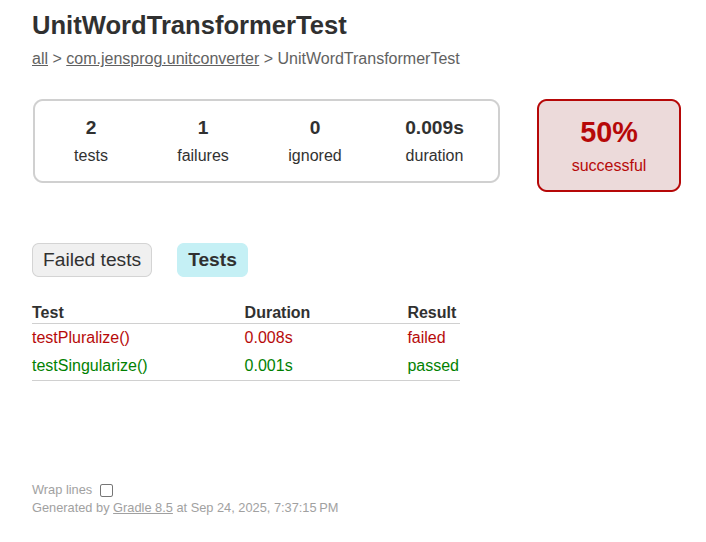
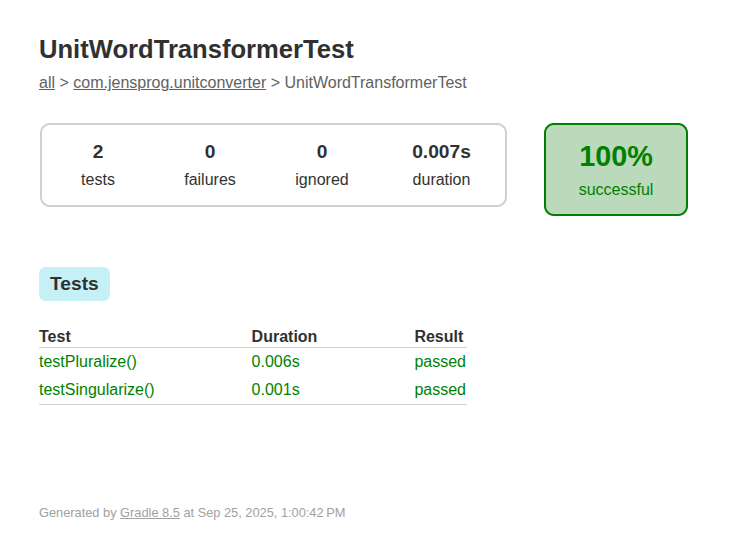
Found the issue around my conversion between singular and plural for speed conversion, issue fixed and all tests pass.

diff --git a/src/main/java/com/jensprog/unitconverter/UnitWordTransformer.java b/src/main/java/com/jensprog/unitconverter/UnitWordTransformer.java
@@ -42,9 +42,9 @@ public class UnitWordTransformer {
     singularToPlural.put("cup", "cups");
     singularToPlural.put("fluidOunce", "fluidOunces");
 
-    singularToPlural.put("meterPerSecond", "metersPerSecond");
-    singularToPlural.put("kilometerPerHour", "kilometersPerHour");
-    singularToPlural.put("milePerHour", "milesPerHour");
+    singularToPlural.put("m/s", "m/s");
+    singularToPlural.put("km/h", "km/h");
+    singularToPlural.put("mph", "mph");
 
     singularToPlural.put("celsius", "celsius");
     singularToPlural.put("fahrenheit", "fahrenheit");

diff --git a/docs/Reflections.md b/docs/Reflections.md
@@ -14,7 +14,7 @@
 
 I have not reflected as much of naming before as I do now when reading the book and also focus on it. It is harder than I expected and so far from my experience, the more a class/method/variable do, the harder it is to give them good descriptive names. I have started creating certain methods (example below) with names I did not like, I understood what the method did but if someone looked at the name of the method, they might not get it immediately. When I created classes or methods with names I thought were good, I felt that someone from the outside don't have to check what the class actually does or what the behaviour of the method is, since the naming was good.
 
-Before reading the book I have not thought about nouns and verbs, why it's better that classes have nouns and methods have verbs. 
+Before reading the book I have not thought about nouns and verbs, why it's better that classes have nouns and methods have verbs.
 
 A good example of bad naming (which is now removed) is this method that is suppose to check the array of strings for the "to" word. I had no clue how to name the method well, so to maybe understand what it does you had to check inside the method. ![Bad naming example](images/checkToKeyword.png)
 
